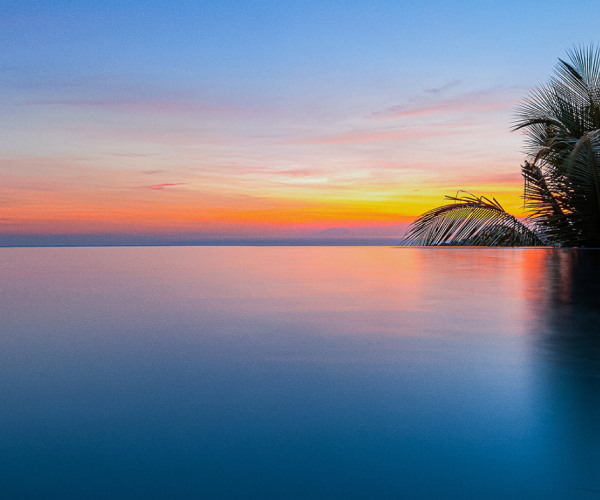
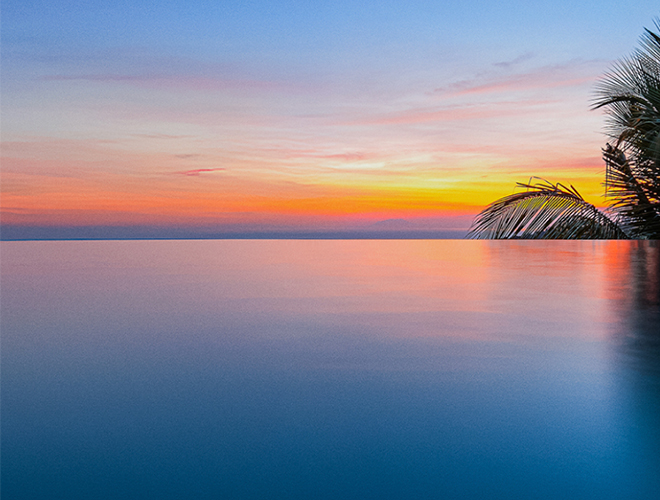
dfg

Changed region(s): [[0.0, 0.0, 1.0, 0.99], [0.69, 0.87, 0.72, 0.9], [0.57, 0.24, 0.6, 0.27]]

diff --git a/PremierCard/160x600/main.js b/PremierCard/160x600/main.js
@@ -1,0 +1,56 @@
+var tl;
+var tl2;
+var startTime;
+
+
+function init() {
+  startTime = new Date();
+  tl = gsap.timeline({ onComplete: logDuration });
+  tl2 = gsap.timeline({});
+  animate();
+  setRollover();
+}
+
+function animate() {
+  tl.set(["#main_content"], { autoAlpha: 1, force3D: true });
+  tl.set(["#copy1", "#copy2", "#copy3", "#cta"], { y: 20, autoAlpha: 0 });
+  tl2.set(bg, {x:-41, force3D:true})
+  // tl2.set(flare, {force3D:true})
+  tl2.to(bg, 9, {x:0, ease: "none",}, 0)
+  // tl2.to(flare, 4, { scale: 0.85,  yoyo:true, repeat:4,  ease: "sine.inOut"}, 0)
+  tl.addLabel("frame1", 0)
+    .to(copy1, 0.5, { autoAlpha: 1, y:0, ease: "power1.inOut" }, "frame1")
+    .to(copy1, 0.5, { autoAlpha: 0, ease: "power1.inOut" }, "frame1+=3.5")
+    .addLabel("frame2", "frame1+=4")
+    .to(copy2, 0.5, { y: 0, autoAlpha: 1, y:0, ease: "power1.inOut"}, "frame2")
+    .to(lastFrame, 0.6, { y: 0, ease: Power2.easeOut }, "frame2+=3.5")
+    .to([copy3, cta], 0.5, { autoAlpha: 1, y:0,  ease: "power1.inOut" }, ">")
+    .to(shine, 1, { backgroundPosition: '166px -110px' }, "frame2+=5");
+}
+
+function setRollover() {
+  document
+    .getElementById("default_exit")
+    .addEventListener("mouseover", defaultOver, false);
+  document
+    .getElementById("default_exit")
+    .addEventListener("mouseout", defaultOut, false);
+}
+
+function defaultOver() {
+  gsap.to("#cta", 0.15, { scale: 1.1, ease: Power1.easeInOut });
+}
+
+function defaultOut() {
+  gsap.to("#cta", 0.15, { scale: 1, ease: Power1.easeInOut });
+}
+
+
+function logDuration() {
+  let endTime = new Date();
+  console.log(
+    "Animation duration: " +
+      ((endTime - startTime) / 1000).toFixed(2) +
+      " seconds",
+  );
+}

diff --git a/index.html b/index.html
@@ -185,7 +185,7 @@
   <div class="container">
     <div class="tabs">
       <div class="tab active" onclick="openTab('plusCardOffer', this)">Plus Card Offer</div>
-      <div class="tab" onclick="openTab('plusCardBenefits', this)">Plus Card Benefits</div>
+      <!-- <div class="tab" onclick="openTab('plusCardBenefits', this)">Plus Card Benefits</div> -->
       <div class="tab" onclick="openTab('premierCard', this)">Premier Card Offer</div>
     </div>
 
@@ -207,7 +207,7 @@
           </div>
         </div>
       </div>
-      <div id="plusCardBenefits" class="tab-content">
+      <!-- <div id="plusCardBenefits" class="tab-content">
         <h2>JetBlue Fall Elevated Offer Plus Card Benefits</h2>
         <div class="grid">
           <div class="card">
@@ -223,16 +223,16 @@
             <a target="_blank" href="PlusCard/Benifits/728x90/index.html">728x90</a>
           </div>
         </div>
-      </div>
+      </div> -->
       <div id="premierCard" class="tab-content">
         <h2>JetBlue Fall Elevated Offer Premier Card</h2>
         <div class="grid">
           <div class="card">
+            <a target="_blank" href="PremierCard/160x600/index.html">160x600</a>
+          </div>
+          <div class="card">
             <a target="_blank" href="PremierCard/300x250/index.html">300x250</a>
           </div>
-          <!-- <div class="card">
-            <a target="_blank" href="PremierCard/300x250_alt/index.html">300x250 Alt</a>
-          </div> -->
           <!-- <div class="card">
             <a target="_blank" href="PremierCard/300x250_alt/index.html">300x250 Alt</a>
           </div> -->